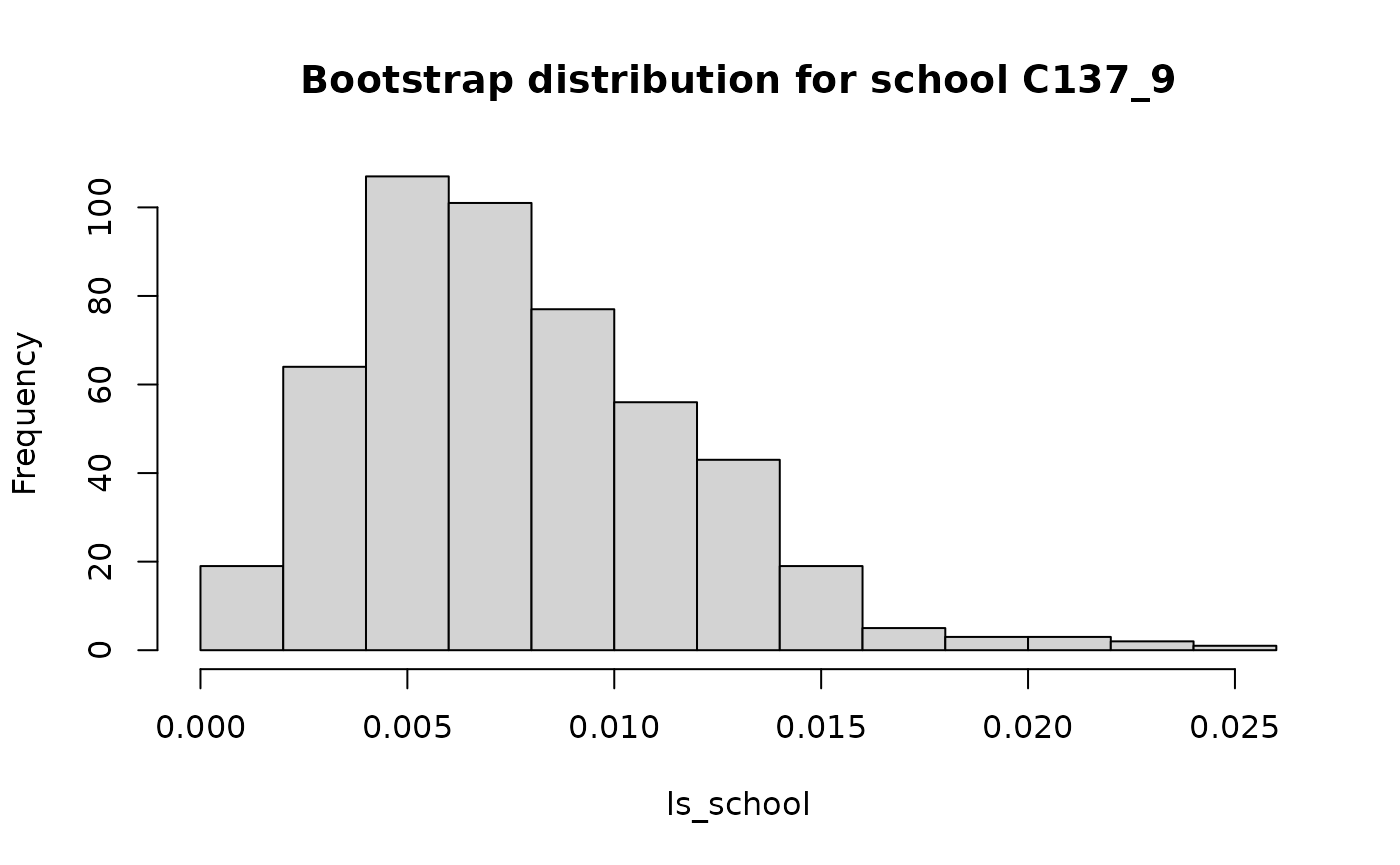
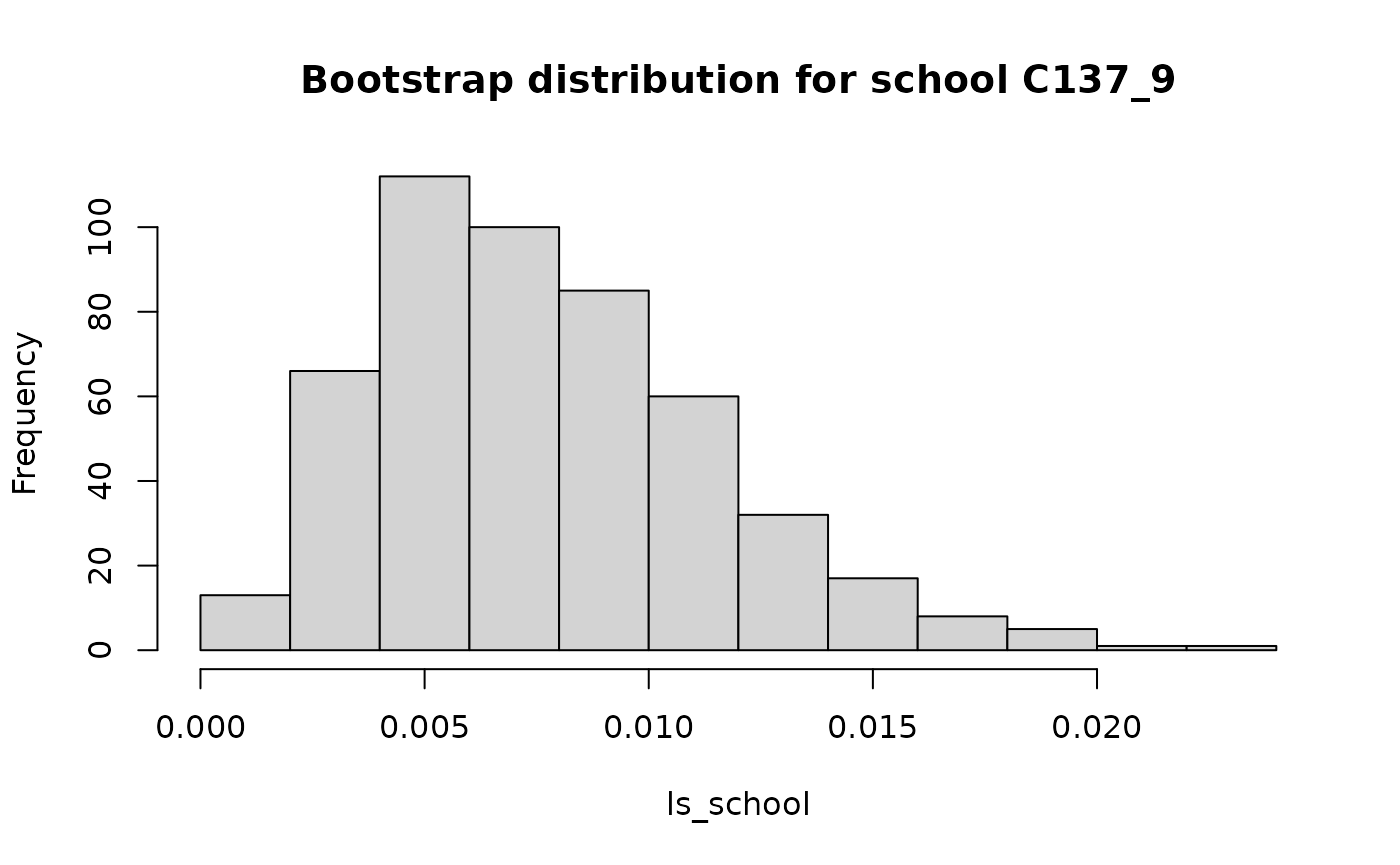
Deploying to gh-pages from @ elbersb/segregation@3b17da040a05e0d98d8c421e2bc11422c6d946a4 🚀

diff --git a/articles/segregation.html b/articles/segregation.html
@@ -257,8 +257,8 @@ standard errors and confidence intervals:</p>
 <span>             se <span class="op">=</span> <span class="cn">TRUE</span>, CI <span class="op">=</span> <span class="fl">.95</span>, n_bootstrap <span class="op">=</span> <span class="fl">500</span><span class="op">)</span></span>
 <span><span class="co">#&gt; 500 bootstrap iterations on 877739 observations</span></span>
 <span><span class="co">#&gt;    stat       est           se                  CI        bias</span></span>
-<span><span class="co">#&gt; 1:    M 0.4219152 0.0007553509 0.4204596,0.4233307 0.003623825</span></span>
-<span><span class="co">#&gt; 2:    H 0.4152361 0.0007052643 0.4138057,0.4166107 0.003572224</span></span></code></pre></div>
+<span><span class="co">#&gt; 1:    M 0.4219762 0.0008220723 0.4203922,0.4234554 0.003562809</span></span>
+<span><span class="co">#&gt; 2:    H 0.4152775 0.0007312866 0.4138977,0.4166811 0.003530848</span></span></code></pre></div>
 <p>As there a large number of observations, the standard errors are very
 small.</p>
 </div>
@@ -483,8 +483,8 @@ iterations can be specified as well:</p>
 <span>                    se <span class="op">=</span> <span class="cn">TRUE</span>, CI <span class="op">=</span> <span class="fl">.95</span>, n_bootstrap <span class="op">=</span> <span class="fl">500</span><span class="op">)</span><span class="op">)</span></span>
 <span><span class="co">#&gt; 500 bootstrap iterations on 877739 observations</span></span>
 <span><span class="co">#&gt;    stat       est           se                  CI        bias</span></span>
-<span><span class="co">#&gt; 1:    M 0.4219427 0.0007711716 0.4205165,0.4234317 0.003596253</span></span>
-<span><span class="co">#&gt; 2:    H 0.4152481 0.0006810625 0.4139201,0.4165368 0.003560256</span></span></code></pre></div>
+<span><span class="co">#&gt; 1:    M 0.4218762 0.0007257737 0.4204626,0.4232649 0.003662780</span></span>
+<span><span class="co">#&gt; 2:    H 0.4152098 0.0006890015 0.4137705,0.4165569 0.003598559</span></span></code></pre></div>
 <p>The confidence intervals are based on the percentiles from the
 bootstrap distribution, and hence require a large number of bootstrap
 iterations for valid interpretation. The estimate <code>est</code> that
@@ -502,10 +502,10 @@ intervals, as</p>
 <div class="sourceCode" id="cb17"><pre class="downlit sourceCode r">
 <code class="sourceCode R"><span><span class="co"># M</span></span>
 <span><span class="fu"><a href="https://rdrr.io/r/base/with.html" class="external-link">with</a></span><span class="op">(</span><span class="va">se</span>, <span class="fu"><a href="https://rdrr.io/r/base/c.html" class="external-link">c</a></span><span class="op">(</span><span class="va">est</span><span class="op">[</span><span class="fl">1</span><span class="op">]</span> <span class="op">-</span> <span class="fl">1.96</span> <span class="op">*</span> <span class="va">se</span><span class="op">[</span><span class="fl">1</span><span class="op">]</span>, <span class="va">est</span><span class="op">[</span><span class="fl">1</span><span class="op">]</span> <span class="op">+</span> <span class="fl">1.96</span> <span class="op">*</span> <span class="va">se</span><span class="op">[</span><span class="fl">1</span><span class="op">]</span><span class="op">)</span><span class="op">)</span></span>
-<span><span class="co">#&gt; [1] 0.4204312 0.4234542</span></span>
+<span><span class="co">#&gt; [1] 0.4204537 0.4232987</span></span>
 <span><span class="co"># H</span></span>
 <span><span class="fu"><a href="https://rdrr.io/r/base/with.html" class="external-link">with</a></span><span class="op">(</span><span class="va">se</span>, <span class="fu"><a href="https://rdrr.io/r/base/c.html" class="external-link">c</a></span><span class="op">(</span><span class="va">est</span><span class="op">[</span><span class="fl">2</span><span class="op">]</span> <span class="op">-</span> <span class="fl">1.96</span> <span class="op">*</span> <span class="va">se</span><span class="op">[</span><span class="fl">2</span><span class="op">]</span>, <span class="va">est</span><span class="op">[</span><span class="fl">2</span><span class="op">]</span> <span class="op">+</span> <span class="fl">1.96</span> <span class="op">*</span> <span class="va">se</span><span class="op">[</span><span class="fl">2</span><span class="op">]</span><span class="op">)</span><span class="op">)</span></span>
-<span><span class="co">#&gt; [1] 0.4139132 0.4165829</span></span></code></pre></div>
+<span><span class="co">#&gt; [1] 0.4138593 0.4165602</span></span></code></pre></div>
 <p>provide effectively the same coverage as the confidence intervals
 obtained from the percentile bootstrap.</p>
 <p>Whenever the bootstrap is used, the bootstrap distributions for each
@@ -535,8 +535,8 @@ For the <code>schools00</code> dataset:</p>
 <div class="sourceCode" id="cb19"><pre class="downlit sourceCode r">
 <code class="sourceCode R"><span><span class="fu"><a href="../reference/mutual_expected.html">mutual_expected</a></span><span class="op">(</span><span class="va">schools00</span>, <span class="st">"race"</span>, <span class="st">"school"</span>, weight <span class="op">=</span> <span class="st">"n"</span>, n_bootstrap <span class="op">=</span> <span class="fl">500</span><span class="op">)</span></span>
 <span><span class="co">#&gt;         stat         est           se</span></span>
-<span><span class="co">#&gt; 1: M under 0 0.004801367 7.368900e-05</span></span>
-<span><span class="co">#&gt; 2: H under 0 0.004725425 7.252348e-05</span></span></code></pre></div>
+<span><span class="co">#&gt; 1: M under 0 0.004801537 7.532100e-05</span></span>
+<span><span class="co">#&gt; 2: H under 0 0.004725592 7.412966e-05</span></span></code></pre></div>
 <p>Here, there is no concern about bias due to a small sample size.</p>
 </div>
 <div class="section level2">
@@ -557,8 +557,8 @@ the terms of the decomposition are found in Elbers (2021).</p>
 <span><span class="co">#&gt; 3:           diff -0.012153884</span></span>
 <span><span class="co">#&gt; 4:      additions -0.003412776</span></span>
 <span><span class="co">#&gt; 5:       removals -0.011405093</span></span>
-<span><span class="co">#&gt; 6: group_marginal  0.017186497</span></span>
-<span><span class="co">#&gt; 7:  unit_marginal -0.011028174</span></span>
+<span><span class="co">#&gt; 6: group_marginal  0.018550238</span></span>
+<span><span class="co">#&gt; 7:  unit_marginal -0.012391915</span></span>
 <span><span class="co">#&gt; 8:     structural -0.003494338</span></span></code></pre></div>
 <p>This method also supports inference by setting
 <code>se = TRUE</code>.</p>

diff --git a/reference/mutual_expected.html b/reference/mutual_expected.html
@@ -144,8 +144,8 @@ Defaults to the natural logarithm.</p></dd>
     <div class="sourceCode"><pre class="sourceCode r"><code><span class="r-in"><span><span class="co"># the schools00 dataset has a large sample size, so expected segregation is close to zero</span></span></span>
 <span class="r-in"><span><span class="fu">mutual_expected</span><span class="op">(</span><span class="va">schools00</span>, <span class="st">"race"</span>, <span class="st">"school"</span>, weight <span class="op">=</span> <span class="st">"n"</span><span class="op">)</span></span></span>
 <span class="r-out co"><span class="r-pr">#&gt;</span>         stat         est           se</span>
-<span class="r-out co"><span class="r-pr">#&gt;</span> 1: M under 0 0.004798925 8.094547e-05</span>
-<span class="r-out co"><span class="r-pr">#&gt;</span> 2: H under 0 0.004723021 7.966517e-05</span>
+<span class="r-out co"><span class="r-pr">#&gt;</span> 1: M under 0 0.004822273 7.500883e-05</span>
+<span class="r-out co"><span class="r-pr">#&gt;</span> 2: H under 0 0.004746000 7.382243e-05</span>
 <span class="r-in"><span></span></span>
 <span class="r-in"><span><span class="co"># but we can build a smaller table, with 100 students distributed across</span></span></span>
 <span class="r-in"><span><span class="co"># 10 schools, where one racial group has 10% of the students</span></span></span>
@@ -156,14 +156,14 @@ Defaults to the natural logarithm.</p></dd>
 <span class="r-in"><span><span class="op">)</span></span></span>
 <span class="r-in"><span><span class="fu">mutual_expected</span><span class="op">(</span><span class="va">small</span>, <span class="st">"race"</span>, <span class="st">"school"</span>, weight <span class="op">=</span> <span class="st">"n"</span><span class="op">)</span></span></span>
 <span class="r-out co"><span class="r-pr">#&gt;</span>         stat        est         se</span>
-<span class="r-out co"><span class="r-pr">#&gt;</span> 1: M under 0 0.05496733 0.02051771</span>
-<span class="r-out co"><span class="r-pr">#&gt;</span> 2: H under 0 0.16908708 0.06311529</span>
+<span class="r-out co"><span class="r-pr">#&gt;</span> 1: M under 0 0.05181156 0.01919105</span>
+<span class="r-out co"><span class="r-pr">#&gt;</span> 2: H under 0 0.15937950 0.05903432</span>
 <span class="r-in"><span><span class="co"># with an increase in sample size (n=1000), the values improve</span></span></span>
 <span class="r-in"><span><span class="va">small</span><span class="op">$</span><span class="va">n</span> <span class="op">&lt;-</span> <span class="va">small</span><span class="op">$</span><span class="va">n</span> <span class="op">*</span> <span class="fl">10</span></span></span>
 <span class="r-in"><span><span class="fu">mutual_expected</span><span class="op">(</span><span class="va">small</span>, <span class="st">"race"</span>, <span class="st">"school"</span>, weight <span class="op">=</span> <span class="st">"n"</span><span class="op">)</span></span></span>
-<span class="r-out co"><span class="r-pr">#&gt;</span>         stat        est          se</span>
-<span class="r-out co"><span class="r-pr">#&gt;</span> 1: M under 0 0.00444547 0.001992486</span>
-<span class="r-out co"><span class="r-pr">#&gt;</span> 2: H under 0 0.01367488 0.006129161</span>
+<span class="r-out co"><span class="r-pr">#&gt;</span>         stat         est          se</span>
+<span class="r-out co"><span class="r-pr">#&gt;</span> 1: M under 0 0.004774043 0.002209628</span>
+<span class="r-out co"><span class="r-pr">#&gt;</span> 2: H under 0 0.014685614 0.006797120</span>
 </code></pre></div>
     </div>
   </div>

diff --git a/reference/mutual_difference.html b/reference/mutual_difference.html
@@ -262,9 +262,9 @@ the change in M that is induced by these cases as
 <span class="r-out co"><span class="r-pr">#&gt;</span> 3:           diff -0.012153884</span>
 <span class="r-out co"><span class="r-pr">#&gt;</span> 4:      additions -0.003412776</span>
 <span class="r-out co"><span class="r-pr">#&gt;</span> 5:       removals -0.011405093</span>
-<span class="r-out co"><span class="r-pr">#&gt;</span> 6: group_marginal  0.014732917</span>
-<span class="r-out co"><span class="r-pr">#&gt;</span> 7:  unit_marginal -0.006252296</span>
-<span class="r-out co"><span class="r-pr">#&gt;</span> 8:     structural -0.005816636</span>
+<span class="r-out co"><span class="r-pr">#&gt;</span> 6: group_marginal  0.010492606</span>
+<span class="r-out co"><span class="r-pr">#&gt;</span> 7:  unit_marginal -0.010492606</span>
+<span class="r-out co"><span class="r-pr">#&gt;</span> 8:     structural  0.002663986</span>
 <span class="r-in"><span><span class="co"># =&gt; the structural component is close to zero, thus most change is in the marginals.</span></span></span>
 <span class="r-in"><span><span class="co"># This method gives identical results when we switch the unit and group definitions,</span></span></span>
 <span class="r-in"><span><span class="co"># and when we switch the data inputs.</span></span></span>
@@ -294,8 +294,8 @@ the change in M that is induced by these cases as
 <span class="r-out co"><span class="r-pr">#&gt;</span> 5:       removals  0.003412776</span>
 <span class="r-out co"><span class="r-pr">#&gt;</span> 6: group_marginal  0.019784513</span>
 <span class="r-out co"><span class="r-pr">#&gt;</span> 7:  unit_marginal -0.016961244</span>
-<span class="r-out co"><span class="r-pr">#&gt;</span> 8:    interaction  0.016961244</span>
-<span class="r-out co"><span class="r-pr">#&gt;</span> 9:     structural -0.022448498</span>
+<span class="r-out co"><span class="r-pr">#&gt;</span> 8:    interaction -0.002823269</span>
+<span class="r-out co"><span class="r-pr">#&gt;</span> 9:     structural -0.002663986</span>
 <span class="r-in"><span></span></span>
 <span class="r-in"><span><span class="co"># the MRC method indicates a much higher structural change...</span></span></span>
 <span class="r-in"><span><span class="fu">mutual_difference</span><span class="op">(</span><span class="va">schools00</span>, <span class="va">schools05</span>, group <span class="op">=</span> <span class="st">"race"</span>, unit <span class="op">=</span> <span class="st">"school"</span>,</span></span>

diff --git a/reference/dissimilarity_expected.html b/reference/dissimilarity_expected.html
@@ -137,13 +137,13 @@ over which segregation is computed.</p></dd>
 <span class="r-in"><span>    n <span class="op">=</span> <span class="fu"><a href="https://rdrr.io/r/base/c.html" class="external-link">c</a></span><span class="op">(</span><span class="fu"><a href="https://rdrr.io/r/base/rep.html" class="external-link">rep</a></span><span class="op">(</span><span class="fl">1</span>, <span class="fl">10</span><span class="op">)</span>, <span class="fu"><a href="https://rdrr.io/r/base/rep.html" class="external-link">rep</a></span><span class="op">(</span><span class="fl">9</span>, <span class="fl">10</span><span class="op">)</span><span class="op">)</span></span></span>
 <span class="r-in"><span><span class="op">)</span></span></span>
 <span class="r-in"><span><span class="fu">dissimilarity_expected</span><span class="op">(</span><span class="va">small</span>, <span class="st">"race"</span>, <span class="st">"school"</span>, weight <span class="op">=</span> <span class="st">"n"</span><span class="op">)</span></span></span>
-<span class="r-out co"><span class="r-pr">#&gt;</span>         stat       est         se</span>
-<span class="r-out co"><span class="r-pr">#&gt;</span> 1: D under 0 0.3644444 0.09872614</span>
+<span class="r-out co"><span class="r-pr">#&gt;</span>         stat       est        se</span>
+<span class="r-out co"><span class="r-pr">#&gt;</span> 1: D under 0 0.3566667 0.1002491</span>
 <span class="r-in"><span><span class="co"># with an increase in sample size (n=1000), the values improve</span></span></span>
 <span class="r-in"><span><span class="va">small</span><span class="op">$</span><span class="va">n</span> <span class="op">&lt;-</span> <span class="va">small</span><span class="op">$</span><span class="va">n</span> <span class="op">*</span> <span class="fl">10</span></span></span>
 <span class="r-in"><span><span class="fu">dissimilarity_expected</span><span class="op">(</span><span class="va">small</span>, <span class="st">"race"</span>, <span class="st">"school"</span>, weight <span class="op">=</span> <span class="st">"n"</span><span class="op">)</span></span></span>
 <span class="r-out co"><span class="r-pr">#&gt;</span>         stat       est         se</span>
-<span class="r-out co"><span class="r-pr">#&gt;</span> 1: D under 0 0.1254444 0.03650442</span>
+<span class="r-out co"><span class="r-pr">#&gt;</span> 1: D under 0 0.1276667 0.03529559</span>
 </code></pre></div>
     </div>
   </div>

diff --git a/index.html b/index.html
@@ -104,6 +104,7 @@
 <li>calculate total, between, within, and local segregation using the M/H indices</li>
 <li>decompose differences in total segregation over time (Elbers 2020)</li>
 <li>other supported indices are the dissimilarity, isolation, and exposure indices</li>
+<li>supports <a href="https://elbersb.github.io/segregation/articles/plotting.html" class="external-link">segregation visualizations</a> (segregation curves and ‘segplots’)</li>
 <li>estimate standard errors and confidence intervals via bootstrapping, which also corrects for small sample bias</li>
 <li>contains functions to visualize segregation patterns</li>
 <li>every method returns a <a href="https://vita.had.co.nz/papers/tidy-data.html" class="external-link">tidy</a> <a href="https://rdatatable.gitlab.io/data.table/" class="external-link">data.table</a> for easy post-processing and plotting</li>
@@ -186,7 +187,7 @@
 <div class="sourceCode" id="cb6"><pre class="downlit sourceCode r">
 <code class="sourceCode R"><span><span class="fu"><a href="reference/segplot.html">segplot</a></span><span class="op">(</span><span class="va">schools00</span>, group <span class="op">=</span> <span class="st">"race"</span>, unit <span class="op">=</span> <span class="st">"school"</span>, weight <span class="op">=</span> <span class="st">"n"</span><span class="op">)</span></span></code></pre></div>
 <p><img src="README-segplot-1.png"><!-- --></p>
-<p>Find more information in the <a href="https://elbersb.github.io/segregation" class="external-link">documentation</a>.</p>
+<p>Find more information in the <a href="https://elbersb.github.io/segregation/" class="external-link">documentation</a>.</p>
 </div>
 <div class="section level2">
 <h2 id="how-to-install">How to install<a class="anchor" aria-label="anchor" href="#how-to-install"></a>

diff --git a/authors.html b/authors.html
@@ -77,13 +77,16 @@
     </div>
 
 
-    <p>Benjamin Elbers. 2021. A Method for Studying Differences in Segregation Across Time and Space Sociological Methods &amp; Research. doi: 10.1177/0049124121986204</p>
+    <p>Benjamin Elbers. 2021. A Method for Studying Differences in Segregation Across Time and Space Sociological Methods &amp; Research 52(1): 5-42. doi: 10.1177/0049124121986204</p>
     <pre>@Article{,
   title = {A Method for Studying Differences in Segregation Across Time and Space},
   author = {Benjamin Elbers},
   journal = {Sociological Methods &amp; Research},
   year = {2021},
-  url = {https://journals.sagepub.com/doi/full/10.1177/0049124121986204},
+  volume = {52},
+  number = {1},
+  pages = {5-42},
+  doi = {10.1177/0049124121986204},
 }</pre>
 
   </div>
